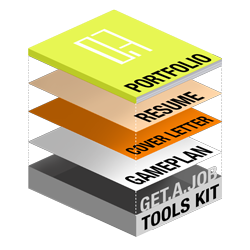
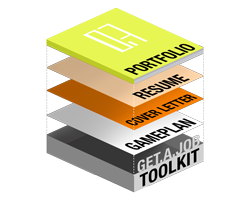
update graphic and edit toolkit

diff --git a/src/app/main/main.html b/src/app/main/main.html
@@ -41,8 +41,8 @@
                         <button disabled="disabled" style="display: none;" type="submit" class="loading gradient-on btn btn-success btn-block btn-lg btn-custom">
                             <img src="//static1.mailerlite.com/images/rolling.gif" width="20" height="20">
                         </button>
-                        <p>** สมัครวันนี้ รับชุดคิท “คว้างาน” (GET A JOB Tools Kit : for Architects and Designers)  สำหรับวางแผน เตรียมตัวสมัครงาน ในสายออกแบบ/สถาปัตยกรรม ฟรี!!</p>
-                        <img ng-src="assets/images/kit/kitgraphic.png" alt="" width="250" height="250" >
+                        <p>** สมัครวันนี้ รับชุดคิท “คว้างาน” (GET A JOB Toolkit : for Architects and Designers)  สำหรับวางแผน เตรียมตัวสมัครงาน ในสายออกแบบ/สถาปัตยกรรม ฟรี!!</p>
+                        <img ng-src="assets/images/kit/kitgraphic.png" alt="Get A Job Toolkit" width="250" height="250" >
                     </div>
                 </form>
                 <script>
@@ -217,8 +217,8 @@
                         <button disabled="disabled" style="display: none;" type="submit" class="loading gradient-on btn btn-success btn-block btn-lg btn-custom">
                             <img src="//static1.mailerlite.com/images/rolling.gif" width="20" height="20">
                         </button>
-                        <p>** สมัครวันนี้ รับชุดคิท “คว้างาน” (GET A JOB Tools Kit : for Architects and Designers)  สำหรับวางแผน เตรียมตัวสมัครงาน ในสายออกแบบ/สถาปัตยกรรม ฟรี!!</p>
-                        <img ng-src="assets/images/kit/kitgraphic.png" alt="" width="250" height="250" >
+                        <p>** สมัครวันนี้ รับชุดคิท “คว้างาน” (GET A JOB Toolkit : for Architects and Designers)  สำหรับวางแผน เตรียมตัวสมัครงาน ในสายออกแบบ/สถาปัตยกรรม ฟรี!!</p>
+                        <img ng-src="assets/images/kit/kitgraphic.png" alt="Get A Job Toolkit" width="250" height="250" >
                     </div>
                 </form>
                 <script>
@@ -237,13 +237,15 @@
   <!-- Footer -->
   <div class='row footer'>
     <div class='text-center'>
-      <a href="mailto:someone@example.com?Subject=Hello%20again" target="_top"><small>e-mail</small></a>  
+      <a href="mailto:jom@dreamaction.co" target="_top"><small>e-mail</small></a>  
       |
       <a href="http://facebook.com/thedreamaction" target="_top"><small>facebook</small></a>  
       |
-      <a href="http://blog.dreamaction.co" target="_top"><small>blog</small></a>  
+      <a href="https://twitter.com/godreamaction" target="_top"><small>twitter</small></a>  
       |
-      <a href="http://blog.dreamaction.co/aboutme/" target="_top"><small>about</small></a>  
+      <a href="http://dreamaction.co" target="_top"><small>blog</small></a>  
+      |
+      <a href="http://dreamaction.co/aboutme/" target="_top"><small>about</small></a>  
     </div>
   </div>
   <div class='row text-center copyright'>
@@ -253,7 +255,7 @@
     </div>
     <div class='col-md-12 text-center'>
 
-      <p><small>DREAM.ACTION © 2015</small></p>
+      <p><small>DREAM ACTION © 2016</small></p>
     </div>
   </div>
 

diff --git a/src/app/thankyou/partials/thankyou.html b/src/app/thankyou/partials/thankyou.html
@@ -14,7 +14,7 @@
 				ชุดคิท “คว้างาน”ซึ่งเป็นชุดคิทสำหรับเตรียมตัว ประมวลความคิด วางแผน และ ทำพอร์ท Folio เพื่อใช้เตรียมตัวสมัครงาน ในสายงานออกแบบ
 			</h4>
 			<a href="#" > 
-				<img class='download-img' ng-src="assets/images/thankyou/download.png" alt="" width='225' height='225'>
+				<img class='download-img' ng-src="assets/images/thankyou/download.png" alt="Download Get A Job Toolkit" width='225' height='225'>
 			</a>
 			
 		</div>

diff --git a/src/app/components/navbar/navbar.html b/src/app/components/navbar/navbar.html
@@ -17,6 +17,7 @@
     <div class="navbar-collapse" ng-class="{collapse: isCollapsed}">      
       <ul class="nav navbar-nav navbar-right">
         <li><a href="http://dreamaction.co">BLOG</a></li>
+        <li><a href="http://dreamaction.co/what-is-dreamaction/">WHAT IS DA?</a></li>
         <li><a href="http://dreamaction.co/aboutme/">ABOUT</a></li>
       </ul>
     </div><!-- .navbar-collapse -->
